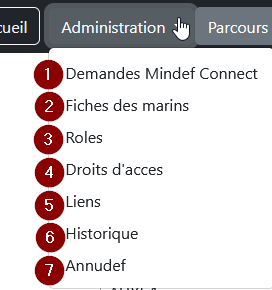
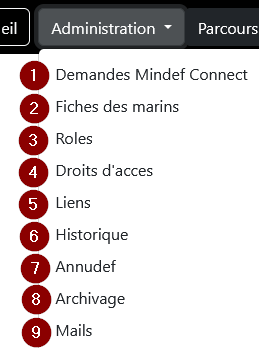
suite des modifs de la doc

Changed region(s): [[0.0, 0.0, 1.0, 1.0]]

diff --git a/resources/docs/1.0/connexion.md b/resources/docs/1.0/connexion.md
@@ -4,6 +4,7 @@
 - [Généralités](#generalite)
 - [Login Auto](#login_auto)
 - [Login Local](#login_local)
+- [Instance de démonstration](#inst_demo)
 
 <a name="generalite">
 ## Généralités
@@ -49,3 +50,12 @@ Dans le cas ou le "login auto" n'est pas possible, vous saisissez votre adresse 
 
 Si la réinitialisation du mot de passe DR-CPT n’est pas possible ou ne peut pas être faite, et que vous n'avez pas initialisé vos identifiants locaux, il faut l’intervention d’un administrateur de FFAST. Il suffit donc d’envoyer un mail à l’adresse: ffast.notification.tec@intradef.gouv.fr.
 D’une façon générale, l’administrateur de FFAST s’efforcera de communiquer un mot de passe temporaire à l’utilisateur et à un cadre de proximité. Il sera alors conseillé à l’utilisateur de modifier son mot de passe à la première connexion.
+
+<a name="inst_demo">
+## Instance de démonstration
+Une instance permettant de comprendre le fonctionnement de l'application est accessible à tous. Retrouvez les indications de connexion dans la page "Login local".
+
+<a href='https://pprod-ffast.intradef.gouv.fr/demo-ffast'>Accéder à l'instance de démo</a>
+
+** Remarque : ** La base de données est réinitialisée quotidiennement avec quelques données basiques. Toutes les modifications apportées ne seront pas conservées.
+

diff --git a/resources/docs/1.0/administration.md b/resources/docs/1.0/administration.md
@@ -24,6 +24,8 @@ Ce menu permet d’accéder :
 5. Gestion des liens disponibles sur la page d’accueil des marins uniquement en transformation.
 6. Historique des actions concernant la transformation.
 7. Recherche des marins grâce à l’annuaire défense.
+8. Liste des marins archivables.
+9. Rédaction de mail.
 
 
 <a name="demandes-mindef-connect">
@@ -137,4 +139,4 @@ Le bouton "Archivage" (4) supprime le marin de l'application. Son livret de tran
 <a name="mails">
 ## Mails
 
-TODO...
+Ce menu, réservé à l'administrateur de l'application, permet d'envoyer des mails (format markdown) aux utilisateurs de l'application.
